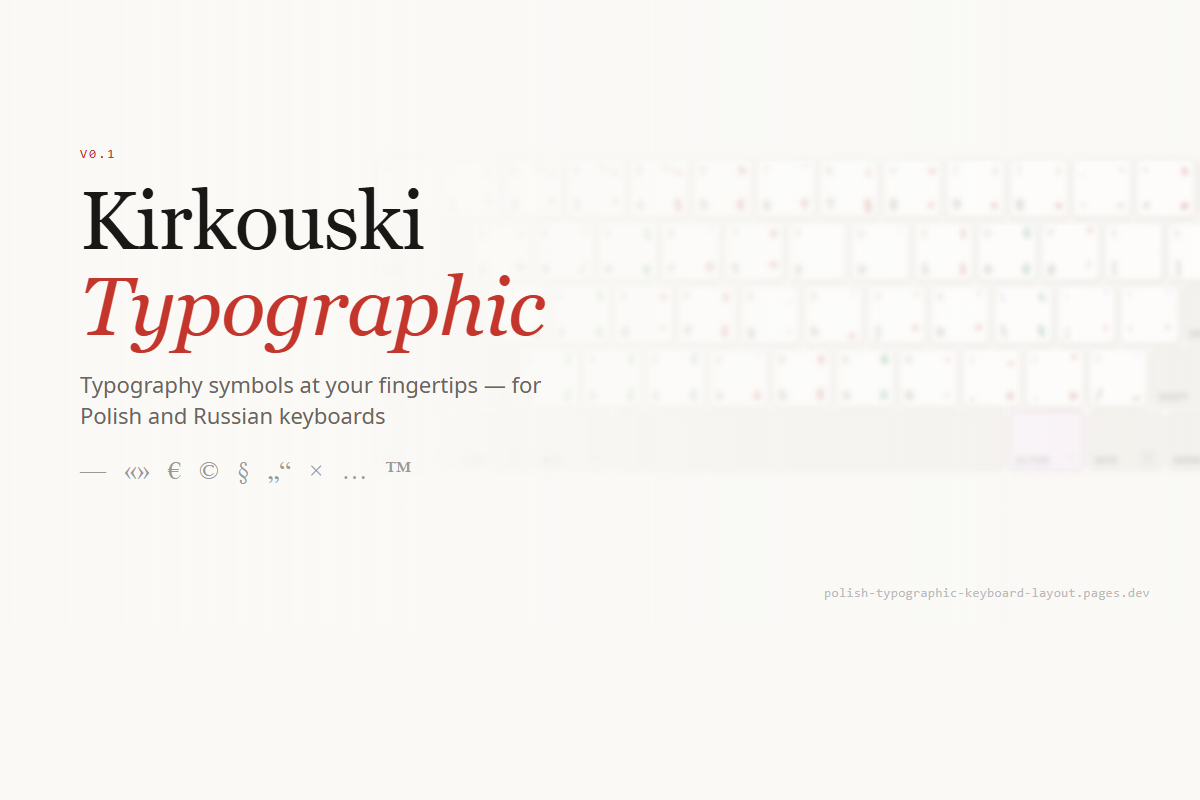
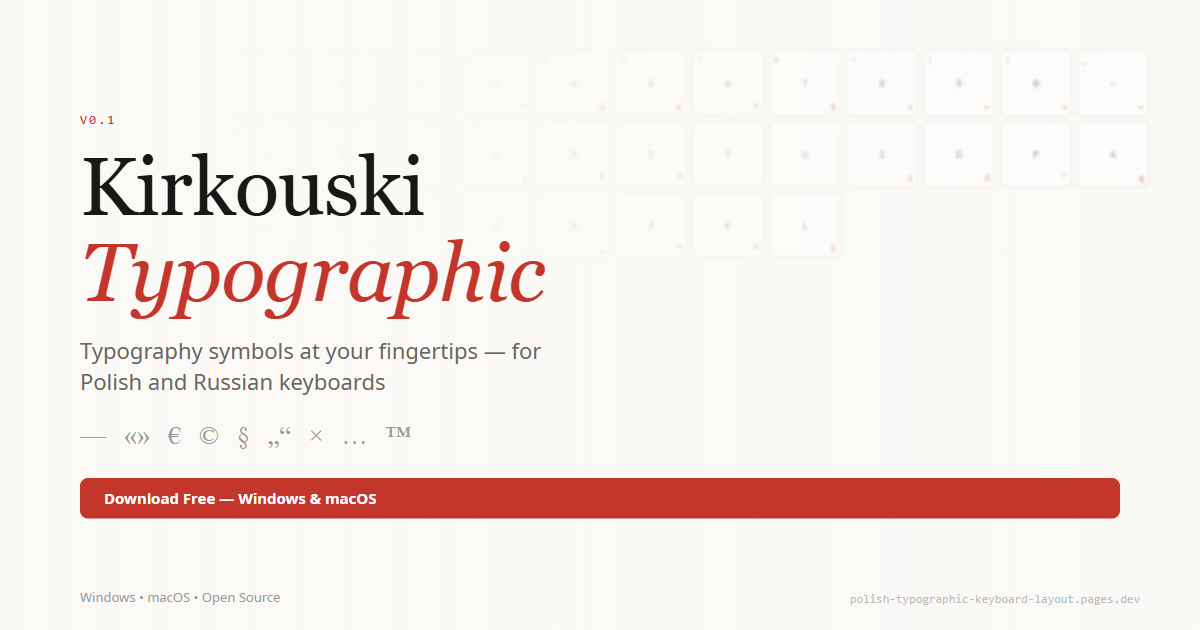
Fix OG metadata: 1200x630 image, CTA button, optimal title/desc length
- OG image: exactly 1200x630px with CTA \"Download Free\" button
- OG title: 56 chars (optimal 50-60)
- OG description: 110 chars (within 110-160 optimal range)
- Twitter card uses same optimized copy

diff --git a/web/index.html b/web/index.html
@@ -11,8 +11,8 @@
     <link rel="canonical" href="https://polish-typographic-keyboard-layout.pages.dev/" />
 
     <meta property="og:type" content="website" />
-    <meta property="og:title" content="Kirkouski Typographic Keyboard Layout" />
-    <meta property="og:description" content="Polish & Russian keyboard layouts with 80+ typographic symbols via AltGr. Em dashes, curly quotes, copyright, euro, arrows, math symbols — all at your fingertips." />
+    <meta property="og:title" content="Kirkouski Typographic — Polish & Russian Keyboard Layout" />
+    <meta property="og:description" content="80+ typographic symbols via AltGr for Windows & macOS. Em dashes, curly quotes, arrows, math — free download." />
     <meta property="og:url" content="https://polish-typographic-keyboard-layout.pages.dev/" />
     <meta property="og:image" content="https://polish-typographic-keyboard-layout.pages.dev/og-image.png" />
     <meta property="og:image:width" content="1200" />
@@ -24,8 +24,8 @@
 
     <meta name="twitter:card" content="summary_large_image" />
     <meta name="twitter:image" content="https://polish-typographic-keyboard-layout.pages.dev/og-image.png" />
-    <meta name="twitter:title" content="Kirkouski Typographic Keyboard Layout" />
-    <meta name="twitter:description" content="Polish & Russian keyboard layouts with typographic symbols via AltGr. For Windows and macOS." />
+    <meta name="twitter:title" content="Kirkouski Typographic — Polish & Russian Keyboard Layout" />
+    <meta name="twitter:description" content="80+ typographic symbols via AltGr for Windows & macOS. Em dashes, curly quotes, arrows, math — free download." />
 
     <link rel="icon" type="image/png" href="/favicon.png" />
     <link rel="icon" type="image/svg+xml" href="/favicon.svg" />
